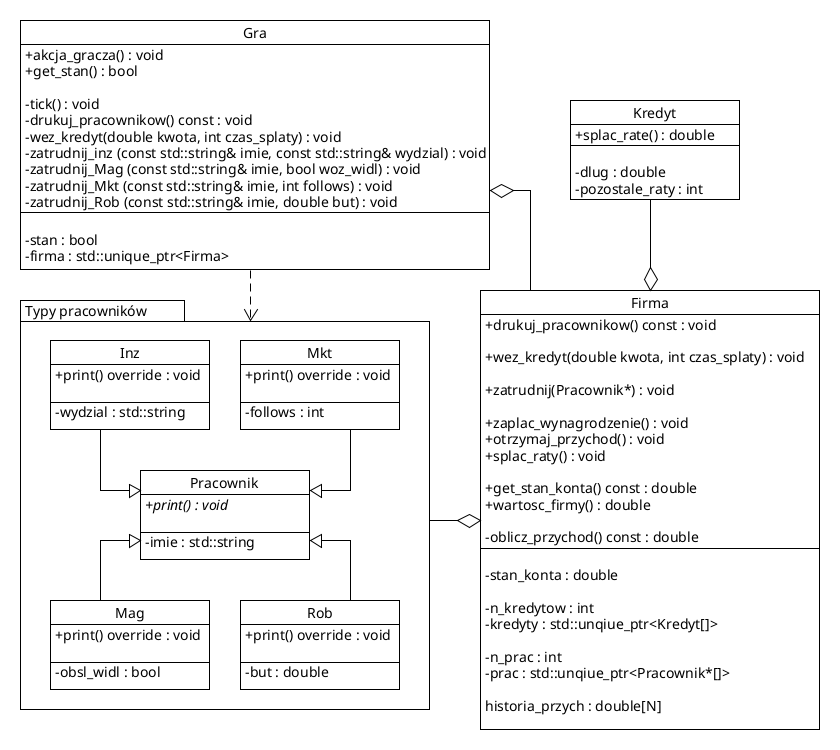
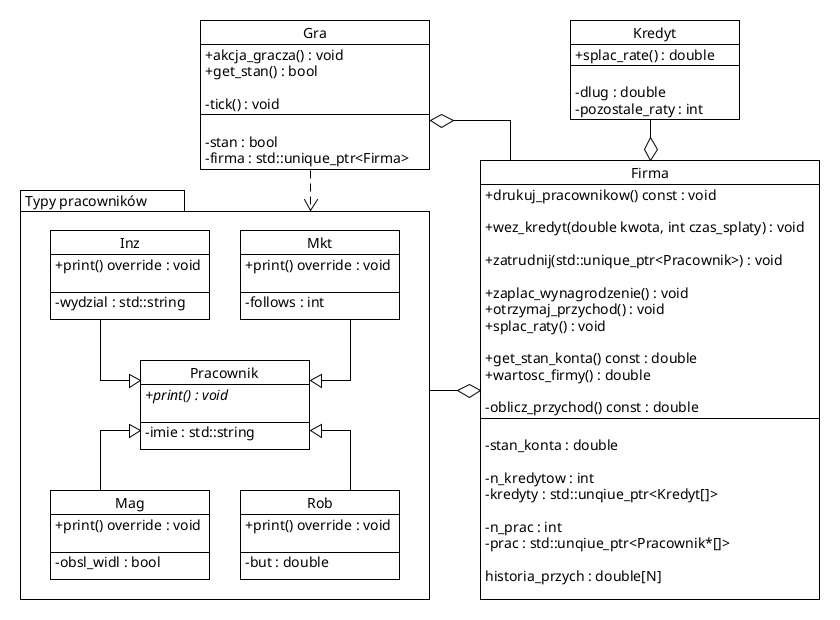
updated uml

diff --git a/README.md b/README.md
@@ -20,8 +20,8 @@ Firma może zatrudniać następujące typy pracowników
 - Robotni(k/czka) - produkuje produkty (generuje podaż)
 
 Każdy pracownik ma imię oraz ustalone wynagrodzenie, które musi zostać wypłacone na koniec miesiąca.
-Cechy te ustalane są w chwili zatrudnienia danego pracownika (mogą, ale nie muszą być losowe).
-Gra powinna dać możliwość wyświetlenia listy zatrudnionych pracowników wraz z ich cechami (kolejność może być dowolna).
+Imię jest ustalane w trakcie zatrudniania pracownika (możesz użyć dostarczonego przez prowadzącego generatora imion losowych).
+Wynagrodzenie jest stałe dla wszystkich pracowników danego typu (np. wszyscy inżynierowie zarabiają X).
 
 Każdy typ pracownika posiada zdefiniowaną stałą wydajności, ustalaną w jednym miejscu w kodzie (zapewne jako stałe pole statyczne odpowiednich klas).
 Stałe wydajności oznaczmy (w kolejności zawodów wymienionej wyżej): `CI`, `CMag`, `CMkt`, `CR`.
@@ -32,7 +32,7 @@ Dodatkowo, każdy z typów pracowników posiada dodatkową indywidualną cechę:
 - Mkt. - liczba obserwujących na mediach społecznościowych (liczba całkowita)
 - Rob. - rozmiar buta (załóżmy, że jest to liczba zmiennoprzecinkowa)
 
-Cecha ta powinna być drukowana przy wyświetlaniu pracowników, ale nie ma znaczenia dla funkcjonowania firmy (autor w mało subtelny sposób wymusza implementację poszczególnych typów zawodów jako osobne klasy).
+Gra powinna dać możliwość wyświetlenia listy zatrudnionych pracowników wraz z ich cechami (kolejność może być dowolna).
 
 ### Pojemność magazynu
 Pojemność magazynu równa jest iloczynowi liczby magazynierów i stałej `CMag`.
